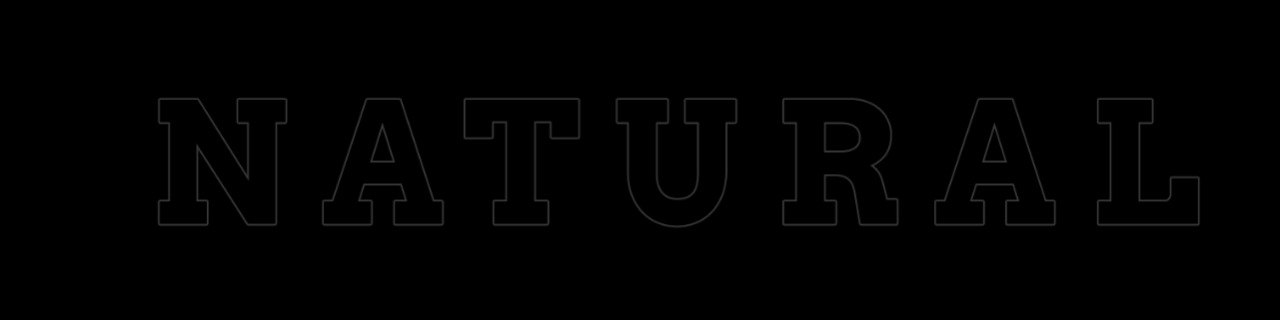
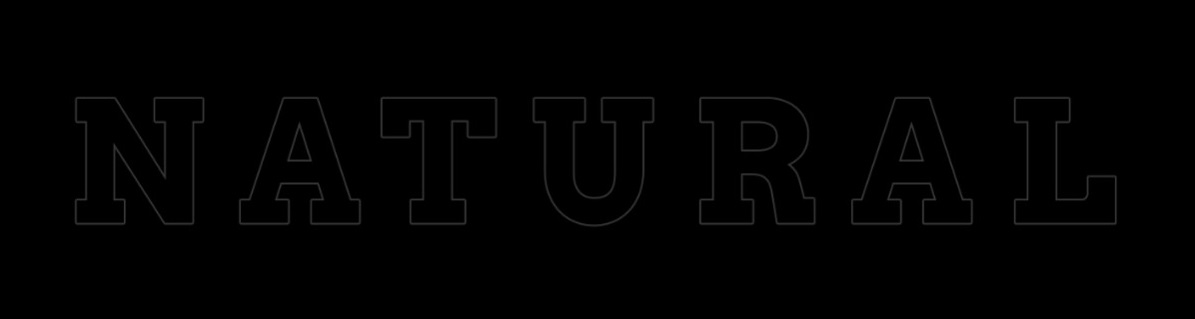
design rework

diff --git a/src/Components/Section1/Section1.css b/src/Components/Section1/Section1.css
@@ -1,4 +1,3 @@
-@import url('https://fonts.googleapis.com/css2?family=Roboto:wght@300;400&display=swap');
 
 * {
   box-sizing: border-box;
@@ -9,7 +8,6 @@
 body {
   background: #333;
   color: #fff;
-  font-family: 'Roboto', sans-serif;
 }
 
 h2 {

diff --git a/src/index.css b/src/index.css
@@ -1,3 +1,5 @@
+@import url('https://fonts.googleapis.com/css2?family=Arvo&display=swap');
+
 *{
   box-sizing: border-box;
   /* overflow-x: hidden; */

diff --git a/src/Components/Stepper/Stepper.css b/src/Components/Stepper/Stepper.css
@@ -1,6 +1,4 @@
 
-/* @import url("https://fonts.googleapis.com/css?family=Open+Sans:400,400i,700"); */
-
 
 
 
